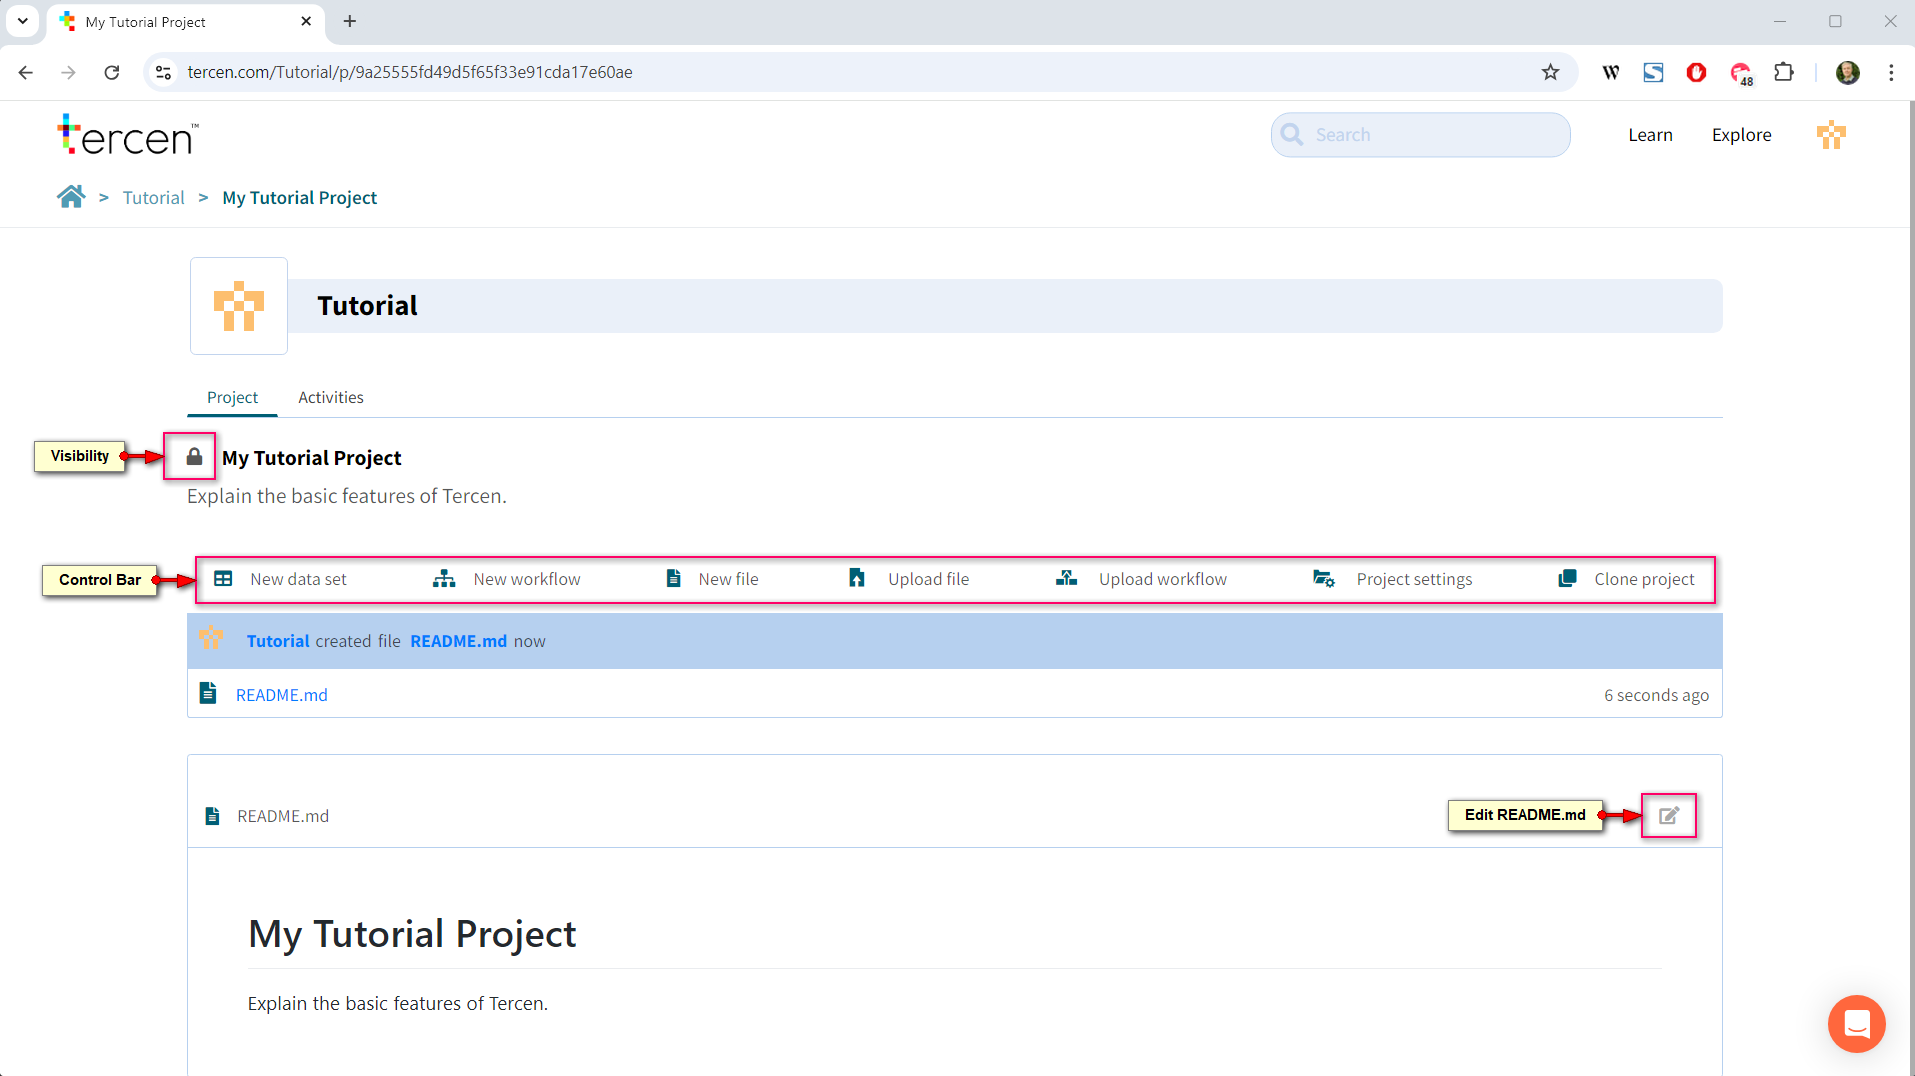
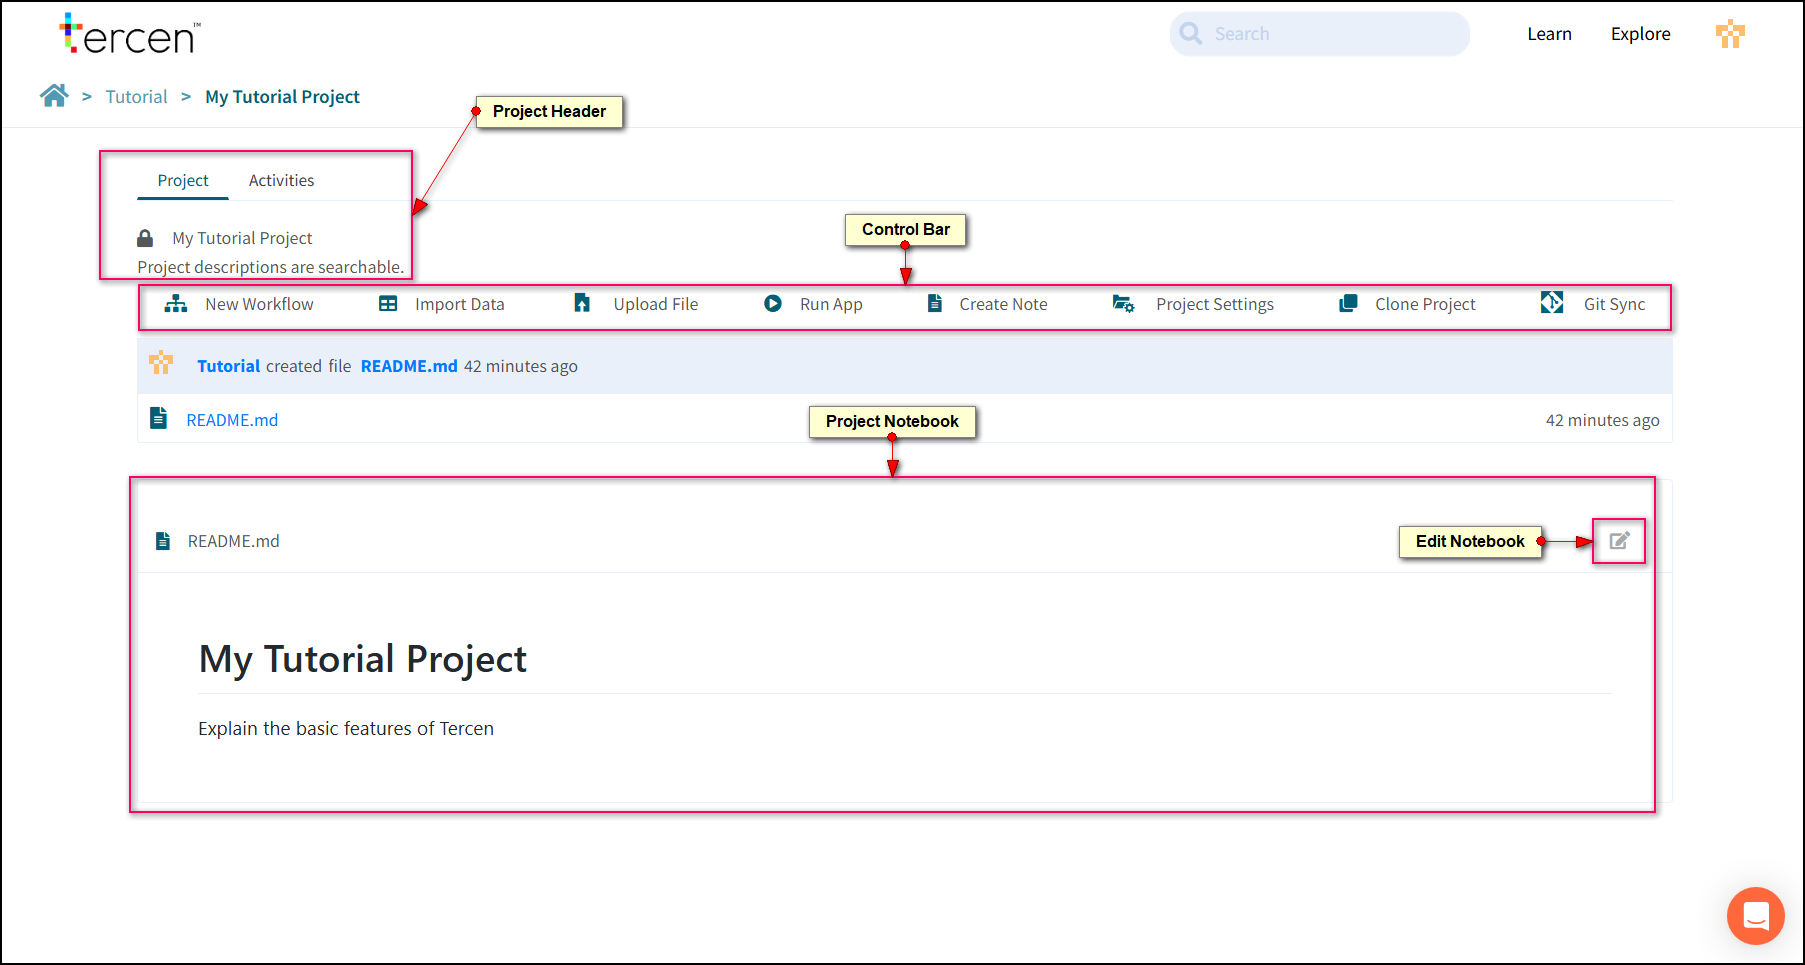
0.16.2 Update

diff --git a/docs/workflow.md b/docs/workflow.md
@@ -10,9 +10,9 @@ Name the workflow (for example "Example Workflow").
 
 ![alt text](img/starter_guide_workflow_1.jpg)
 
-_Note: Pre-defined workflows can be selected. These are called Templates. Templates are used to standardize pipelines so that set-up for routine analysis is speeded up or repeatability is ensured through following the same analysis steps for each experiment.
+NOTE: Pre-defined workflows can be selected here. These are called Templates. Templates are used to standardize pipelines so that the set-up for routine analysis is speeded up and repeatability is ensured by using the same analysis steps for each experiment.
 
-Typically a Tercen analysis would start with a Template, but, for the purpose of this training exercise we will NOT select a template at this point_
+Typically a Tercen analysis would start with a Template, but, for the purpose of this training exercise we will NOT select a template at this point
 
 Press **Ok**
 
@@ -48,12 +48,12 @@ The data table is loaded to the workflow canvas. To extend the pipeline, click t
 - **Reset:** Resets this step and any dependent steps in the pipeline. Previous steps are not reset.
 - **Edit:** Opens this step to expose its features and settings.
 - **Rename:** Change the step name.
-- **Delete:** Removes the step.
+- **Remove:** Deletes the step.
 - **Duplicate:** Makes a copy of the step linked to the same previous data.
 - **Add:** Adds a new step, downstream from this step.
 - **Status Indicator:** Green when that Data Step has run successfully. Red if there is a problem.
 
-## Define and Analysis: Data Step
+## Define an Analysis: Data Step
 
 Press the **Add** button.
 
@@ -68,8 +68,8 @@ Data Steps are the main engine blocks of analysis in Tercen. Visualizations and 
 ![Screenshot](img/starter_guide_Data_Step_1.jpg)
 
 - **Control Bar:** Features for data manipulation and visualization.
-- **Factors Panel:** Factors from the data file appear at the beginning of this list. As the pipeline is built folders are added containing the new factors that are created by the calculations it makes. Each Data Step has access to the factors of the steps that precede it in the pipeline.
-- **Crosstab Grid:** Factors are dropped onto this grid to make projections. These projections create the base data set that is used to create visualizations or perform calculations.
+- **Factors Panel:** Column headers from the data file appear as Factors at the beginning of this list. As the pipeline is built folders will be added containing any new Factors that are created by any calculations the pipeline makes. Each Data Step has access to the factors of the steps that precede it in the pipeline.
+- **Crosstab Grid:** Factors are dropped onto this grid to make projections. These projections create the base data set that is used to create visualizations and perform calculations.
 
 ## Make an X-Y Axis projection
 
@@ -79,9 +79,9 @@ The areas where it can be dropped will go green.
 
 ![Screenshot](img/starter_guide_Data_Step_2.jpg)
 
-The crosstab grid will offer an X-axis and a Y-axis, which project numbers.
+The crosstab grid has an X-axis and a Y-axis, which project numbers.
 
-It will offer a Row and Column, which are used to form groupings of the data in the X-Y Axes.
+It also has Rows and Columns, which are used to perform groupings of the data projected in the X and Y Axes.
 
 We recommend that you always start a projection with your primary measurement on the Y-axis.
 
@@ -152,19 +152,19 @@ Take a moment to move the black lines and zoom in to examine the data. Try to lo
 
 ## Adjust the Colour Palette
 
-Tercen has further color control options for visualizations made with the crosstab.
+Tercen has further colour control options for visualizations made with the crosstab.
 
 Select **Palette** from the Factors Panel.
 
 Palette options are available in the dropdown.
 
-Selected Options will have further settings to adjust the color controls.
+Selected Options will have further settings to adjust the colour controls.
 
 Experiment with the choices on offer.
 
-Select the Divergent palette and adjust the min/max boundary.
+Select the Divergent palette and adjust the min/max boundary. Press teh plus button to apply your changes.
 
-Click the color panes and reset them.
+Click the colour panes and reset them.
 
 ![Screenshot](img/starter_guide_Data_Step_6_1.jpg)
 

diff --git a/docs/create_a_project.md b/docs/create_a_project.md
@@ -6,24 +6,23 @@ A project is a folder or repository which holds the data files, pipelines, and s
 
 ## Start a New Project
 
-![Screenshot](img/starter_guide_new_project_1.png)
-
 Press the New Project button to create one.
 
-- **Name:** The project name
-- **Description:** This description will appear on the screen. The search bar will look for keywords in this section.
-- **Visibility Setting:** Public means anybody on the Tercen server can see it.
+![Screenshot](img/starter_guide_new_project_1.png)
 
-The project will be visible in the **Explore** section of Tercen.
-Unchecking the setting means only the owner (Person or Team) can see it.
+- **Name:** The project name
+- **Description:** Provide a short explanation of your project. The search bar will look for keywords in this section.
+- **Public:** This is the visibility setting. Checked On means anybody on the Tercen server can see it. The project will be visible in the **Explore** section of Tercen. Unchecking the setting means only the owner (Person or Team) can see it.
 
 A project is a repository for the elements of a data analysis. It contains Data Tables, Files, and Workflows.
+
 ![Screenshot](img/starter_guide_new_project_2.png)
 
 ## Project Header
 
-- **Visibility:** A lock icon shows visibility status. Closed = Project is private.  Open = Project is public.
-- **Activity Log:** This tab shows a list of actions performed in the course of the project.
+- **Project Tab:**  The main work area for the project.
+- **Activities Tab:** A log of actions performed in the course of the project.
+- **Lock Icon:** Shows visibility setting. Closed = Project is private.  Open = Project is public.
 
 ## Control Bar
 

diff --git a/docs/operators.md b/docs/operators.md
@@ -4,7 +4,7 @@
 
 Operators are computer programs written in common languages such as R or Python. They perform calculations or visualisations on data and can be simple or complex depending on their design.
 
-Tercen provides hundreds of standard operators to choose from, and your organization may have created an operator specific to your lab's process.
+Tercen provides hundreds of standard operators to choose from, and your organization may even have created an operator specific to your experiment design.
 
 ## Add an Operator to a workflow
 
@@ -59,7 +59,9 @@ Return to Tercen.
 
 ## Run an Operator
 
-Drag **VALUE** to the **Y-axis**.
+Make the following projection.
+
+> VALUE to Y-Axis.
 
 Press the **Run Button** to start the operator.
 
@@ -94,7 +96,7 @@ Drag some new groups into the projection.
 
 Now, a Mean and a Standard Deviation (sd) have been calculated for all 118 cells in the crosstab (2 Columns, 59 Rows).
 
-Save the Data Step.
+**Save** the Data Step.
 
 Return to the Workflow Canvas.
 

diff --git a/docs/gather.md b/docs/gather.md
@@ -58,7 +58,7 @@ Note that two new Factor names (in purple) are created.
 
 Upload the Example_Multi_Measurement_File.xlsx to your project and add it to the workflow canvas.
 
-_Note: This file is an Excel file. Remember to look for the correct importer._
+_NOTE: This file is an Excel file. Remember to look for the correct importer._
 
 Add a **Gather** Step from the local toolbar.
 
@@ -74,7 +74,7 @@ Leave SUBJECT_ID, AGE and event_id to be un-gathered. They will be repeated on e
 
 Click the **Run Step** button.
 
-_Note: You may be wondering why SEX and DATE don't appear in the list. The factors are separated into Numeric and Character as text data can not be a main measurement._
+_NOTE: You may be wondering why SEX and DATE don't appear in the list. The factors are separated into Numeric and Character as text data can not be a main measurement._
 
 ## Projecting Gathered Data
 

diff --git a/docs/filter.md b/docs/filter.md
@@ -61,6 +61,6 @@ Build a second rule.
 
 Press Ok and check the projection to see how it has changed.
 
-_Note: Be aware that Filters apply their rules from the Top down. The top rule is applied first and then the next one, and so on, down the list. The rules at the top DO affect the rules that come after them.So it is possible for an earlier rule to exclude data that you expect a later filter to operate on._
+NOTE: Be aware that Filters apply their rules from the Top down. The top rule is applied first and then the next one, and so on, down the list. The rules at the top DO affect the rules that come after them.So it is possible for an earlier rule to exclude data that you expect a later filter to operate on.
 
 Return to the workflow canvas and rename the step to "Side Scatter Plots".
